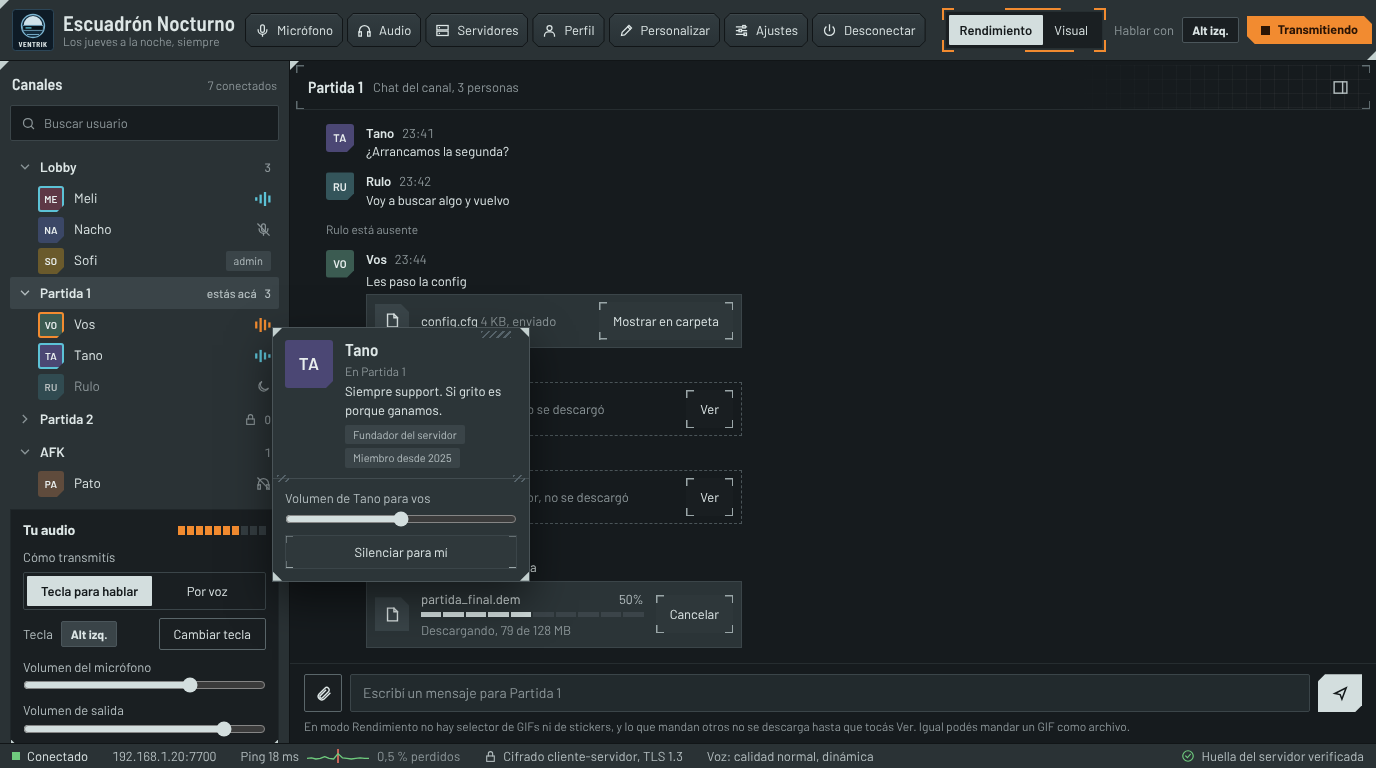
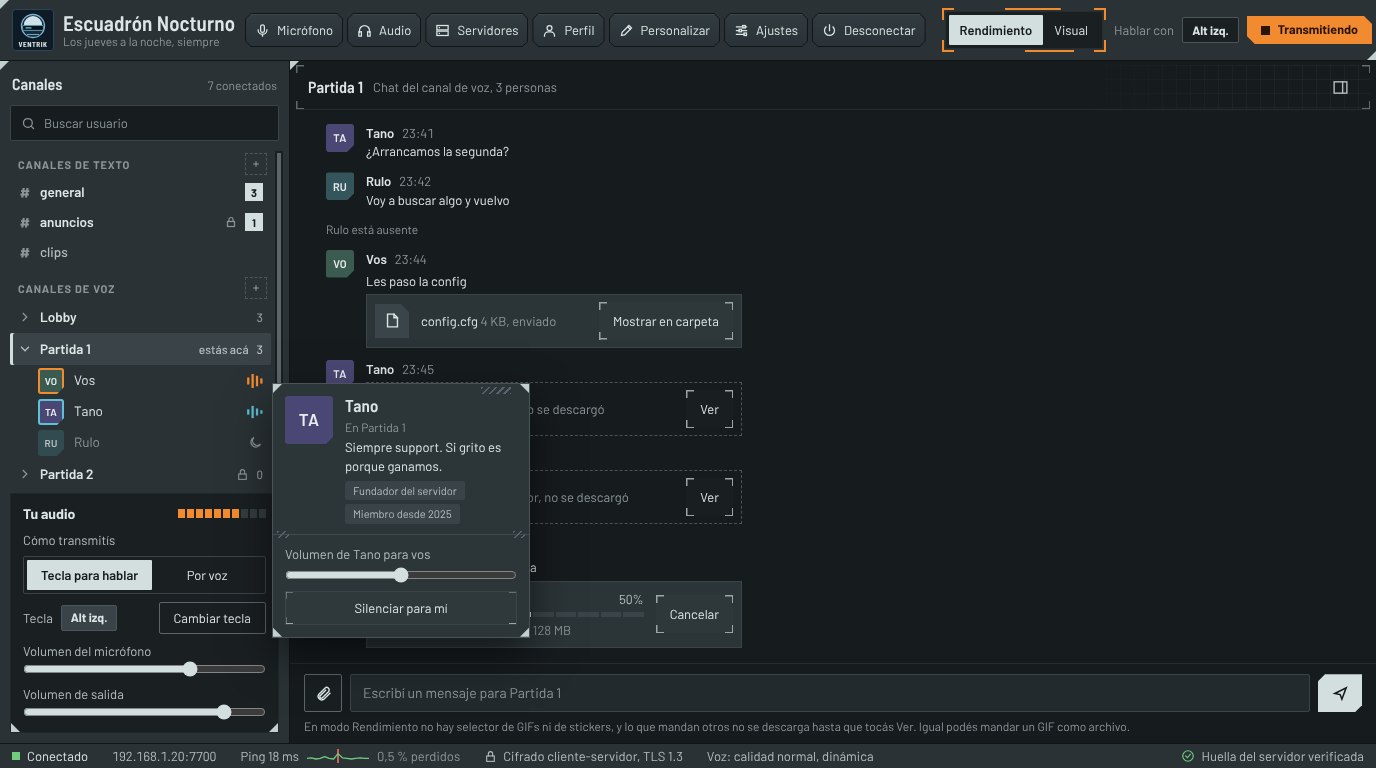
Diseño: canales de texto y notificaciones
- docs/diseno.md: dos tipos de canal, de voz y de texto. Los de texto
  se leen y se escriben sin salir del canal de voz, con la marca "solo
  los admins escriben", un contador de mensajes nuevos y un aviso del
  servidor sin el texto, con tope de ritmo. También notificaciones:
  las de Windows 10 y 11 en la versión moderna y una ventana propia en
  la clásica, configurables.
- docs/aspecto.md: grupos de canales, filas de texto, canal elegido,
  barra de la lista y ventana de notificaciones de la clásica.
- docs/plan.md: el paso 2.5 queda en tres partes (canales de texto en
  protocolo, base y permisos en la parte 2; la pantalla del servidor
  en la 3), y las notificaciones son el primer paso de la etapa 3.
- docs/estado.md: lo que sigue y los pendientes.
- docs/pantallas/: Rendimiento.png y Visual.png actualizadas, y
  Rendimiento-canal-texto.png y Visual-canal-texto.png nuevas.

Pedido por el dueño; capturas hechas por él fuera de Claude Code.

Changed region(s): [[0.0, 0.1875, 0.4062, 0.9688], [0.3438, 0.0938, 0.4062, 0.125]]

diff --git a/docs/diseno.md b/docs/diseno.md
@@ -59,8 +59,8 @@ La ventana tiene una sola organización y dos modos: los modos cambian cuánto h
 Organización de la ventana:
 
 - **Arriba:** el servidor, los botones (micrófono, audio, servidores, perfil, personalizar para los administradores, ajustes, desconectar), el selector de modo y el estado de la tecla para hablar.
-- **Izquierda:** el árbol de canales con las personas adentro y su estado: habla, micrófono apagado, audio apagado, ausente o no molestar (sin sonidos de aviso). Abajo, tu audio: medidor, cómo transmitís (tecla o voz, con su sensibilidad) y volúmenes.
-- **Derecha:** el chat del canal, con los archivos.
+- **Izquierda:** la lista de canales en dos grupos, "Canales de texto" arriba y "Canales de voz" abajo (ver "Canales de voz y de texto"). Los de voz muestran las personas adentro y su estado: habla, micrófono apagado, audio apagado, ausente o no molestar (sin sonidos de aviso), y se pliegan. La lista se desplaza con su propia barra; abajo queda fijo tu audio: medidor, cómo transmitís (tecla o voz, con su sensibilidad) y volúmenes.
+- **Derecha:** el chat del canal de voz donde estás o del canal de texto que elegiste, con los archivos.
 - **Abajo:** la barra de estado con la conexión, el ping, el cifrado y la verificación del servidor.
 
 |  | Modo Rendimiento | Modo Visual |
@@ -91,7 +91,7 @@ El programa abre en **Inicio**: no hay lista de amigos, porque Ventrik se organi
 | Pantalla | Qué tiene |
 | --- | --- |
 | Inicio (en los dos modos) | Tus servidores con su estado (en línea, cuántos hay, ping, tu último canal, solicitudes pendientes, tu servidor apagado), entrar con invitación, tu estado, el aviso de copia de tu identidad y el botón Reportar. En Visual suma el encabezado y el icono animados de cada servidor y tu tarjeta |
-| Servidor (Rendimiento o Visual) | Canales, chat, archivos, tu audio y tarjetas de perfil |
+| Servidor (Rendimiento o Visual) | Canales de voz y de texto, chat, archivos, tu audio y tarjetas de perfil |
 | Explorar servidores | Lista pública con búsqueda por nombre, IP o región; red local; guardados. En Visual, al elegir un servidor se ven su fondo e icono animados |
 | Hostear un servidor | Configuración, seguridad, calidad de voz, archivos y antivirus, invitaciones, red y puertos, capacidad y respaldo de la identidad del servidor |
 | Ajustes | General (con el idioma), teclas (hablar y susurros), apariencia, avisos y sonidos, descargas, seguridad, red y acerca de (con Reportar, la licencia y las bibliotecas) |
@@ -100,6 +100,18 @@ El programa abre en **Inicio**: no hay lista de amigos, porque Ventrik se organi
 | Reportar un error o sugerir | Error o idea, datos técnicos que se pueden ver antes de enviar, captura opcional y contacto opcional |
 | Perfil y Personalizar servidor | Lo del modo Visual, incluida la tarjeta de perfil |
 | Editor de efectos | Capas, vista previa ampliada y en tamaño real, límites y código para compartir, para el marco del avatar y el de la tarjeta |
+| Notificaciones | Mensajes nuevos y conexión cortada mientras Ventrik no está al frente: las de Windows 10 y 11 en la versión moderna, una ventana propia en la clásica (ver "Notificaciones") |
+
+### Notificaciones
+
+Avisan de lo que pasa mientras Ventrik no está al frente o está minimizado. Nunca avisan de tus propios mensajes, y tocarlas abre Ventrik en ese canal.
+
+- **De qué avisan:** mensajes nuevos en canales de texto, mensajes del chat de tu canal de voz y conexión cortada (el servidor se cortó o dejó de responder). En Ajustes → Avisos se apagan todas juntas o cada tipo por separado. No molestar las silencia.
+- **Qué dicen:** si hay un solo mensaje, quién lo escribió y el texto ("Tano en #general: ¿Arrancamos la segunda?"). Si hay varios, se amontonan en una sola notificación por canal, que se va actualizando: "3 mensajes en #general de Tano", o "de Tano, Sofi y 2 más".
+- **De dónde sale el texto:** de los canales de texto que no estás mirando, el servidor solo avisa el contador (ver "Canales de voz y de texto"). Cuando va a mostrar una notificación, el programa le pide esos mensajes nuevos al servidor como cualquier historial, con sus permisos y topes.
+- **Windows 10 y 11 (versión moderna):** las notificaciones del sistema, las que salen abajo a la derecha y quedan en el Centro de actividades, con el nombre y el ícono de Ventrik. Se cargan con GetProcAddress; si no están, se usa la ventana propia.
+- **Versión clásica (XP a 8.1 y Windows 10 de 32 bits):** una ventana propia, chica, abajo a la derecha, parecida a la de Windows 10 y con el aspecto de Ventrik (docs/aspecto.md). No le quita el foco a lo que estés haciendo, se cierra sola a los pocos segundos y se dibuja sin Direct3D, para no gastar en la netbook.
+- **Privacidad:** Windows guarda sus notificaciones en un archivo propio, fuera de Ventrik y sin cifrar. Por eso, en Ajustes → Avisos se puede elegir que digan solo el canal y la cantidad, sin quién ni el texto.
 
 ## Voz
 
@@ -180,9 +192,28 @@ Cada canal tiene su chat, y los mensajes y archivos quedan guardados en el servi
 - **La voz va primero:** los archivos viajan con menor prioridad y un límite de velocidad configurable, así una descarga grande no mete retraso en la voz.
 - **Tamaño máximo:** lo decide el servidor. Por ejemplo, 500 MB por archivo en un servidor normal y 25 MB en el modo limitado.
 
+### Canales de voz y de texto
+
+Hay dos tipos de canal, y el tipo no se cambia después de crearlo:
+
+- **De voz:** como siempre. Entrar te mueve, hablás ahí y tiene su chat.
+- **De texto:** solo chat. No se entra: se lee y se escribe sin salir del canal de voz donde estás.
+
+En la lista de la izquierda van en dos grupos, "Canales de texto" arriba y "Canales de voz" abajo. Cada grupo tiene su botón + para crear un canal, solo para el dueño (y los admins desde la etapa 9). Los de texto llevan #, la cantidad de mensajes nuevos y el nombre en negrita si hay nuevos.
+
+- **Elegir un canal de texto:** se marca en la lista, el chat pasa a ese canal y el encabezado dice "Canal de texto · seguís hablando en <canal de voz>". Tu canal de voz sigue con "estás acá", y tocarlo vuelve a su chat.
+- **"Solo los admins escriben":** marca opcional de cada canal de texto, por ejemplo #anuncios, con un candado en la lista. Se elige al crear el canal y el dueño la cambia después con clic derecho, junto con el nombre. El resto lo lee con el campo de mensaje bloqueado, y el servidor lo verifica en cada mensaje. Hasta la etapa 9, "admins" es solo el dueño; los permisos por rol y canal siguen en la etapa 9.
+- **Mismo chat que los de voz:** mismo guardado en SQLite, mismos topes, historial y tiempo de guardado. Para escribir en un canal de texto no hace falta estar adentro, pero el pedido pasa por los permisos del servidor (permisos.cpp) como cualquier otro.
+- **Quién recibe cada mensaje:** el programa le dice al servidor qué canal de texto está mirando, uno por vez. El mensaje completo va a quienes están en ese canal de voz o miran ese canal de texto. A los demás que pueden leerlo, el servidor solo les avisa qué canal tiene mensajes nuevos y su contador, nunca el texto: como mucho un aviso por segundo por persona, con todos los canales que cambiaron juntos.
+- **Mensajes nuevos:** cada canal tiene un contador que solo sube con cada mensaje; borrar mensajes viejos no lo baja. Cada programa guarda en su PC hasta qué número leyó en cada canal, y los nuevos son la diferencia. La primera vez que ves un servidor, todo cuenta como leído.
+- **Protocolo y base:** cada canal lleva su tipo (voz o texto), la marca de "solo admins" y su contador. Se suma antes de publicar la primera versión, así no hay que negociarlo entre versiones. El servidor rechaza usar un canal de texto como canal de voz.
+- **Borrar un canal de texto** borra sus mensajes, y quien lo estaba mirando vuelve al chat de su canal de voz.
+- **Un servidor nuevo** arranca solo con "General", que es de voz. Los canales de texto los crea el dueño; un "general" de texto no puede convivir con "General" de voz, porque los nombres no distinguen mayúsculas.
+- **En los dos modos es igual,** porque es texto.
+
 ### Canales y nombres
 
-- **Canales:** el servidor arranca con "General", que se puede renombrar pero no borrar. Al borrar un canal, quienes estaban ahí pasan a General. Hasta 60 canales.
+- **Canales:** el servidor arranca con "General", que se puede renombrar pero no borrar. Al borrar un canal de voz, quienes estaban ahí pasan a General. Hasta 60 canales, sumando los de voz y los de texto, con nombres únicos entre todos.
 - **Nombres de personas y canales:** de 1 a 32 caracteres, sin espacios al principio, al final ni dobles, y sin controles, caracteres invisibles ni marcas de dirección de texto. Dos nombres que solo cambian en mayúsculas, en letras anchas o en cómo está escrita una tilde cuentan como el mismo. Las letras parecidas de otros alfabetos (como la "а" cirílica) quedan para la etapa 9.
 - **Dueño, provisorio hasta las identidades (etapa 4):** la primera vez que arranca, el servidor crea un código de dueño de 128 bits al azar y lo muestra en su consola esa sola vez; después muestra solo dónde está guardado, para que no salga en una captura junto con la huella. Quien se presenta con ese código administra los canales desde adentro del programa, como en Discord. Un código equivocado cuenta como intento fallido para la protección contra ataques.
 
@@ -341,7 +372,10 @@ El servidor no confía en nada de lo que dice un programa: cualquiera puede modi
 | --- | --- |
 | Un programa modificado se da permisos | El servidor verifica los permisos en cada acción. Ocultar un botón en la interfaz no alcanza |
 | Alguien manda voz haciéndose pasar por otro | El servidor decide quién habla según la conexión e ignora lo que diga el paquete |
-| Descargar archivos de canales ajenos | Cada descarga verifica que estés en ese canal |
+| Descargar archivos de canales ajenos | Cada descarga verifica que puedas leer ese canal: estar en él, si es de voz |
+| Escribir en un canal donde solo escriben los admins | El servidor verifica la marca en cada mensaje |
+| Usar un canal de texto para hablar | El servidor rechaza entrar a un canal de texto como canal de voz |
+| Inundar con avisos de mensajes nuevos | Los avisos no llevan el texto y salen como mucho una vez por segundo por persona, juntando los canales que cambiaron |
 | Inyección SQL | Siempre consultas preparadas en SQLite |
 | Conexiones que nunca terminan de saludar | Tiempo máximo para el saludo inicial y tope de conexiones pendientes por IP |
 | Un programa que no lee lo que recibe | Colas con tope: si no lee, se descarta su voz en vez de acumularla en la memoria. Si lo pendiente de chat y control pasa de 1 MiB, se lo desconecta |
@@ -724,8 +758,8 @@ Cuenta de la subida del host: tope de voces × (personas − 1) × kbps por oyen
 El desarrollo va en once etapas, y la primera es una prueba chica de voz para medir demora y consumo antes de construir el resto. Las dos versiones (moderna y clásica) se compilan y prueban desde el principio.
 
 1. **Prueba de voz:** voz entre dos PCs en red local, con tecla para hablar. Se mide demora y consumo, también en la netbook.
-2. **Base:** servidor, canales, chat, cifrado con TLS 1.3 y DTLS 1.2, permisos básicos verificados en el servidor y panel de diagnóstico.
-3. **Voz completa:** varias personas hablando, mezcla, limpieza de ruido, cancelación de eco, volúmenes, tecla o voz y susurro (con los permisos básicos; los permisos por rol llegan en la etapa 9). Pantallas: Audio y micrófono, y Ajustes → Teclas.
+2. **Base:** servidor, canales de voz y de texto, chat, cifrado con TLS 1.3 y DTLS 1.2, permisos básicos verificados en el servidor y panel de diagnóstico.
+3. **Voz completa:** notificaciones (las de Windows 10 y 11 en la moderna, una ventana propia en la clásica), varias personas hablando, mezcla, limpieza de ruido, cancelación de eco, volúmenes, tecla o voz y susurro (con los permisos básicos; los permisos por rol llegan en la etapa 9). Pantallas: Audio y micrófono, Ajustes → Teclas y Ajustes → Avisos.
 4. **Identidad y seguridad:** claves de identidad, contraseñas con Argon2id, DPAPI y contraseña maestra, niveles de seguridad, historial cifrado, bloqueo automático, aviso de equipo nuevo, avisos de acciones de administradores y respaldo, mudanza y cambio de clave del servidor.
 5. **Archivos y antivirus:** subida, descarga, reanudación, prioridad de la voz, ClamAV en el servidor, base de virus compartida por el servidor y envío de comprimidos con contraseña.
 6. **Red:** panel de red y puertos (placa, puertos, UPnP opcional y prueba desde internet), búsqueda en la red local, relay (el oficial y agregar otros) e invitaciones.
@@ -765,6 +799,7 @@ Ya decidido: código abierto con licencia GPL versión 3 (ver "Viabilidad como p
 | ASLR y CFG | Protecciones de Windows que dificultan aprovechar errores de memoria. XP no las tiene |
 | Ataque de degradación | Cuando un atacante obliga a usar un cifrado más débil para poder romperlo |
 | Biblioteca | Código ya hecho y probado que el programa usa para una tarea, como cifrar o comprimir la voz |
+| Canal de texto | Canal solo de chat: se lee y se escribe sin salir del canal de voz donde estás |
 | CGNAT | Cuando el proveedor de internet comparte una IP pública entre varios clientes. Impide que te entren directo desde afuera |
 | Cifrado | Convertir los datos en algo ilegible para quien no tiene la clave |
 | ClamAV | Antivirus gratuito y de código abierto que trae Ventrik para analizar archivos |

diff --git a/docs/plan.md b/docs/plan.md
@@ -82,10 +82,13 @@ Terminada cuando: la demora en red local está cerca de las 80 ms de la meta y l
 2. (Delicado) El servidor genera su certificado y muestra la huella; el programa se conecta por TLS 1.3 con Mbed TLS y compara la huella. Pruebas de huella correcta, huella incorrecta e intento de bajar a un cifrado más débil.
 3. Canales, entrar y salir, chat por canal guardado en SQLite con consultas preparadas, permisos básicos verificados en el servidor en cada acción y panel de diagnóstico (procesador, RAM, ping y pérdida de paquetes).
 4. (Delicado) Voz por DTLS 1.2 a través del servidor, que la reenvía sin decodificar y decide quién habla según la conexión.
-5. Ventana principal en modo Rendimiento y pantalla Inicio con Direct3D 9 y Dear ImGui, con el aspecto de docs/aspecto.md. Textos en lang/. Captura del resultado comparada con docs/pantallas/Rendimiento.png e Inicio.png.
+5. Ventana principal en modo Rendimiento y pantalla Inicio con Direct3D 9 y Dear ImGui, con el aspecto de docs/aspecto.md. Textos en lang/. En tres partes:
+   - Parte 1 (hecha): la ventana y la pantalla Inicio, comparada con docs/pantallas/Inicio.png.
+   - Parte 2 (delicada): canales de texto en el protocolo, la base y los permisos. Tipo de canal y marca "solo los admins escriben", contador de mensajes, aviso de mensajes nuevos sin el texto y con tope de ritmo, y el servidor rechaza usar un canal de texto como canal de voz. La base de prueba se actualiza sola.
+   - Parte 3: la pantalla del servidor, con los dos grupos de canales, la barra de la lista, los botones +, los contadores de nuevos y hasta dónde leíste guardado en la PC. Captura comparada con docs/pantallas/Rendimiento.png y Rendimiento-canal-texto.png.
 6. Prueba en check.ps1 que levanta servidor y programa en las cuatro combinaciones (clásica y moderna en cada lado) y verifica conexión, chat y voz.
 
-Terminada cuando: un servidor con dos programas conectados (uno desde XP) que chatean y hablan, y la revisión independiente sin fallas de seguridad pendientes.
+Terminada cuando: un servidor con dos programas conectados (uno desde XP) que chatean en un canal de voz y en uno de texto, y hablan, y la revisión independiente sin fallas de seguridad pendientes.
 
 ## Etapas 3 a 11
 
@@ -93,7 +96,7 @@ Cada una empieza en una sesión nueva: se divide en pasos chicos, cada uno con s
 
 | Etapa | Pasos principales | Pantallas | Prueba a mano al final |
 | --- | --- | --- | --- |
-| 3. Voz completa | Varias voces y mezcla; RNNoise; cancelación de eco con SpeexDSP; tecla o voz con sensibilidad; volumen por persona; susurro con los permisos básicos (los permisos por rol llegan en la etapa 9) | Audio y micrófono; Ajustes → Teclas | Tres personas hablando, ruido de fondo de prueba y un susurro |
+| 3. Voz completa | Notificaciones como primer paso: las de Windows 10 y 11 en la moderna y una ventana propia en la clásica, configurables; varias voces y mezcla; RNNoise; cancelación de eco con SpeexDSP; tecla o voz con sensibilidad; volumen por persona; susurro con los permisos básicos (los permisos por rol llegan en la etapa 9) | Audio y micrófono; Ajustes → Teclas; Ajustes → Avisos | Tres personas hablando, ruido de fondo de prueba y un susurro; una notificación con Ventrik minimizado, en la PC y en XP |
 | 4. Identidad y seguridad (delicada) | Clave de identidad; contraseñas con Argon2id; DPAPI y contraseña maestra; niveles de seguridad; historial cifrado; bloqueo automático; aviso de equipo nuevo; avisos de acciones de admins; TOTP para admins; llaves en la moderna; respaldo, mudanza y cambio de clave del servidor | Ajustes → Seguridad; Hostear → Seguridad | Exportar la identidad, borrarla, importarla y volver a entrar; mudar un servidor de prueba a otra PC |
 | 5. Archivos y antivirus (delicada) | Subida, descarga y reanudación con prioridad de la voz; cuarentena y ClamAV en el servidor; base de virus compartida por el servidor; comprimidos con contraseña en el cliente | Enviar archivo con contraseña | Subir el archivo de prueba EICAR y ver que se bloquea |
 | 6. Red | Panel de red y puertos (placa, puertos, UPnP, firewall, prueba desde internet); búsqueda en la red local; relay (el oficial y agregar otros); invitaciones | Hostear → Red; Explorar → Red local | Alguien de afuera entra con una invitación |
@@ -101,4 +104,4 @@ Cada una empieza en una sesión nueva: se divide en pasos chicos, cada uno con s
 | 8. Servidores grandes | Simulador de 512 usuarios; tope de voces; calidad dinámica; capacidad estimada; canal escenario; modo canal grande; chat lento; reconexiones escalonadas | Hostear → Calidad y Capacidad | El informe del simulador muestra cómo baja la calidad con poca subida |
 | 9. Moderación | Roles y permisos por rol y canal (también para susurrar); baneos con huella del equipo; barreras de entrada | Panel de administración | Banear una prueba y ver que vuelve silenciada |
 | 10. Modo Visual (delicada) | Perfiles y tarjeta con fondo animado, efecto por fuera y animación al abrirse; marcos de avatar y editor de efectos con su código para compartir (validado y con fuzzing); Inicio en Visual; personalización (icono animado, fondo del chat, color del tema), GIFs y stickers; imágenes en un proceso aparte con fuzzing; captura en los reportes | Visual, Inicio en Visual, Perfil, Editor de efectos, Personalizar servidor | Cambiar de modo y ver que en Rendimiento no se descarga nada |
-| 11. Cierre | Modo servidor limitado; idiomas; el resto de Ajustes; instaladores con ClamAV; firma con SignPath; actualizaciones firmadas; pruebas de 8 horas | Ajustes (general, apariencia, avisos, descargas, red, acerca de) | Instalar desde cero en XP, en la netbook y en Windows 11 |
+| 11. Cierre | Modo servidor limitado; idiomas; el resto de Ajustes; instaladores con ClamAV; firma con SignPath; actualizaciones firmadas; pruebas de 8 horas | Ajustes (general, apariencia, descargas, red, acerca de) | Instalar desde cero en XP, en la netbook y en Windows 11 |

diff --git a/docs/estado.md b/docs/estado.md
@@ -13,7 +13,8 @@ Para retomar sin perder contexto (se carga desde CLAUDE.md). Actualizar al cerra
 - **Diseño actualizado fuera de Claude Code (2026-10-23):** aspecto nuevo de la interfaz (grafito con acento naranja, Barlow) en docs/aspecto.md, con capturas de cada pantalla en docs/pantallas/; ya no vale el aspecto "Equipo de campo". En docs/diseno.md se sumaron: gráfico de ping y pérdida en la barra de estado (los dos modos) y, para la etapa 10, color del tema en los detalles, fondo del chat del servidor, icono del servidor animado, marcos de avatar y el editor de efectos. Nada de eso cambia los pasos 2.4 y 2.5 salvo el aspecto y el gráfico de ping.
 - **Etapa 2, paso 2.4: cerrado.** Voz por DTLS 1.2 a través del servidor: clave derivada de la conexión TLS, reenvío solo al mismo canal, audio con miniaudio o el puente WinMM en XP, `/hablar` en la consola. Probado a mano: voz en los dos sentidos entre la HP 2133 con XP y la PC, y que otro canal no escucha.
 - **Etapa 2, paso 2.5, parte 1: cerrada.** La ventana con Direct3D 9 y Dear ImGui, el aspecto de docs/aspecto.md (fuentes Barlow dentro del .exe, piezas e íconos dibujados por código) y la pantalla Inicio: servidores guardados en esta PC, entrar con dirección, huella, nombre y código de dueño, y lo de etapas futuras apagado con un cartel que dice en qué etapa llega. Ícono del programa y emblema sacados de docs/logo.png (el dueño pidió solo la cabeza con los auriculares). Comparada con docs/pantallas/Inicio.png. Probada a mano en la PC y en la HP 2133 (entrar, guardado, dueño, huella falsa, minimizar y bloquear).
-- **Lo que sigue: paso 2.5, parte 2**: la pantalla del servidor (canales, chat, hablar con una tecla, barra de estado con el gráfico de ping) y borrar la consola de prueba.
+- **Diseño actualizado (2026-10-23): canales de texto y notificaciones.** Dos tipos de canal (de voz y de texto, en dos grupos en la lista, con contador de nuevos y la marca "solo los admins escriben") y notificaciones (las de Windows 10 y 11 en la moderna, una ventana propia en la clásica). Está en docs/diseno.md, docs/aspecto.md y docs/plan.md; capturas nuevas en docs/pantallas/ (Rendimiento-canal-texto.png y Visual-canal-texto.png, y Rendimiento.png y Visual.png actualizadas).
+- **Lo que sigue: paso 2.5, parte 2 (delicada)**: canales de texto en el protocolo, la base y los permisos. Después, la parte 3: la pantalla del servidor (con los dos grupos de canales, hablar con una tecla y la barra de estado con el gráfico de ping) y borrar la consola de prueba. Las notificaciones son el primer paso de la etapa 3.
 
 ## Ramas y repositorio
 
@@ -183,7 +184,9 @@ Para retomar sin perder contexto (se carga desde CLAUDE.md). Actualizar al cerra
 - Voz, etapa 6: la regla "el UDP viene de la misma IP que el TCP" deja sin voz a casas con dos salidas a internet, algunos CGNAT y servidores con varias placas; revisarla con el relay.
 - Voz, etapa 8: un hilo por núcleo en el servidor (en la netbook, un saludo TLS en el mismo hilo puede meter un corte corto en la voz), tope de voces, corrección de errores de Opus cuando hay pérdida.
 - Voz: al rotar la clave cada hora, el programa corta la sesión vieja antes de tener la nueva (unos milisegundos de voz perdida que Opus disimula); se puede pasar a "armar la nueva antes de soltar la vieja".
-- Paso 2.5, parte 2: la pantalla del servidor se compara con docs/pantallas/Rendimiento.png. La barra de estado lleva, junto al ping, el gráfico del último minuto (ping y pérdida) que abre el diagnóstico.
+- Paso 2.5, parte 2: cada canal lleva su tipo, la marca "solo admins" y su contador en el protocolo y en la base. La base del servidor sube de versión y la de prueba se actualiza sola. El aviso de mensajes nuevos va sin el texto, con tope de un aviso por segundo por persona.
+- Paso 2.5, parte 3: la pantalla del servidor se compara con docs/pantallas/Rendimiento.png y Rendimiento-canal-texto.png. Lleva los dos grupos de canales, la barra de la lista, los botones + (solo el dueño), el contador de nuevos y el campo bloqueado donde solo escriben los admins. La barra de estado lleva, junto al ping, el gráfico del último minuto (ping y pérdida) que abre el diagnóstico.
+- programa.dat pasa a la versión 2 para guardar hasta dónde leíste en cada canal. Las listas v1 de las PCs de prueba se toman como viejas y empiezan de nuevo, con el aviso.
 - Nombres en alfabetos que Barlow no tiene (cirílico, griego, hebreo, árabe, chino): se ven como recuadros. Sumar fuentes es decisión del dueño.
 - Memoria de la ventana: unos 70 MB en Windows 10 (casi todo de Direct3D 9) y 7 MB en la HP 2133 con XP (medido por el dueño, Administrador de tareas).
 - Por VNC, en la HP 2133 la ventana no se ve (en la pantalla de la propia PC sí). El VNC usa un controlador espejo (sin él gasta mucho), y ese controlador no ve lo que dibuja Direct3D. Decisión del dueño: dejarlo así, sin cambios solo para el VNC; la netbook se prueba usándola directamente.

diff --git a/docs/aspecto.md b/docs/aspecto.md
@@ -1,6 +1,6 @@
 # Aspecto de Ventrik
 
-La referencia es docs/pantallas/Rendimiento.png. Todas las demás pantallas usan las mismas piezas. Las medidas son en píxeles al 100 % de escala de Windows y se multiplican por la escala del sistema (125 %, 150 %).
+La referencia es docs/pantallas/Rendimiento.png, y para un canal de texto elegido, docs/pantallas/Rendimiento-canal-texto.png (en Visual, Visual.png y Visual-canal-texto.png). Todas las demás pantallas usan las mismas piezas. Las medidas son en píxeles al 100 % de escala de Windows y se multiplican por la escala del sistema (125 %, 150 %).
 
 Un resultado se da por bueno cuando, puesto al lado de la captura, no se distingue la diferencia en colores, esquinas ni tamaños a simple vista.
 
@@ -63,10 +63,27 @@ Un resultado se da por bueno cuando, puesto al lado de la captura, no se disting
   - 7 botones biselados con 4 de separación;
   - el selector de modo, "Hablar con" y la tecla;
   - "Transmitiendo".
-- Lateral: ancho fijo de 290 y filas de 31 de alto. La fila del canal donde estás va en elevado. Abajo va el bloque "Tu audio", con su medidor y el selector Tecla para hablar / Por voz.
+- Lateral: ancho fijo de 290. La lista de canales se desplaza con su propia barra; abajo queda fijo el bloque "Tu audio", con su medidor y el selector Tecla para hablar / Por voz.
+  - Dos grupos: "Canales de texto" arriba y "Canales de voz" abajo. Etiquetas de grupo a 11 px en negrita, con letras espaciadas y color #8B9598, y a la derecha un botón + de 22 px de borde punteado (solo para el dueño).
+  - Filas de voz: 31 de alto, con una flecha para plegar las personas del canal y la cantidad a la derecha. La fila del canal donde estás va en elevado y dice "estás acá".
+  - Filas de texto: 30 de alto, con # en #8B9598 y el nombre en negrita si hay mensajes nuevos. A la derecha, un candado #8B9598 si solo los admins escriben y el contador de nuevos: 18 px, fondo #D3DEDE y texto #14191B.
+  - Canal de texto elegido: fondo blanco al 7 % y franja izquierda de 3 px (#D3DEDE en Rendimiento, color del tema en Visual).
+  - Barra de la lista: 8 px, riel #1A1F22, barra #5A666A con 2 px de margen del color del riel, y #8B9598 al pasar el mouse.
 - Chat: encabezado con marco y cuadrícula. Los mensajes llevan el avatar a la izquierda. Los archivos van en cajas de 376 de ancho con un botón de esquineros. El campo de mensaje va abajo junto al botón principal de enviar.
+  - Con un canal de texto elegido, el encabezado lleva # y el nombre, y al lado, en apagado, "Canal de texto · seguís hablando en <canal de voz>". El campo dice "Escribí en #<canal>"; si solo los admins escriben, queda bloqueado y lo dice.
 - Barra de estado: alto 24. Muestra conectado (punto verde), dirección, ping, cifrado y calidad de voz, y a la derecha la huella verificada. Junto al ping va un gráfico de 64 × 14 con el último minuto (línea verde, marca roja donde se perdieron paquetes) y el porcentaje perdido; hacer clic abre el panel de diagnóstico. Va en los dos modos.
 - La tarjeta de perfil abre al lado de la persona que tocaste, encima del chat, con 258 de ancho en Rendimiento y 330 en Visual (lleva imagen de fondo).
+
+## Ventana de notificaciones (versión clásica)
+
+La versión moderna usa las notificaciones de Windows 10 y 11. La clásica dibuja su propia ventana, parecida a esas, con las piezas de esta guía:
+
+- Abajo a la derecha, 12 por encima de la barra de tareas y 12 del borde; ancho 360 y alto según el texto, con hasta 3 líneas.
+- Fondo panel, borde línea y los triángulos de esquina de los paneles.
+- Emblema de 32 a la izquierda; arriba el servidor y el canal en Barlow 600 a 13 px (texto); abajo, quién y el mensaje, o "3 mensajes de Tano", a 13 px (texto 2), cortado con "…".
+- Una X para cerrar arriba a la derecha (apagado; texto al pasar el mouse).
+- Hasta 3 a la vez, apiladas con 8 de separación. Cada una se cierra sola a los 6 s, salvo mientras el mouse está encima.
+- Aparece y se va sin animación, no le quita el foco a la ventana que estés usando y se dibuja sin Direct3D.
 
 ## Modo Visual
 
